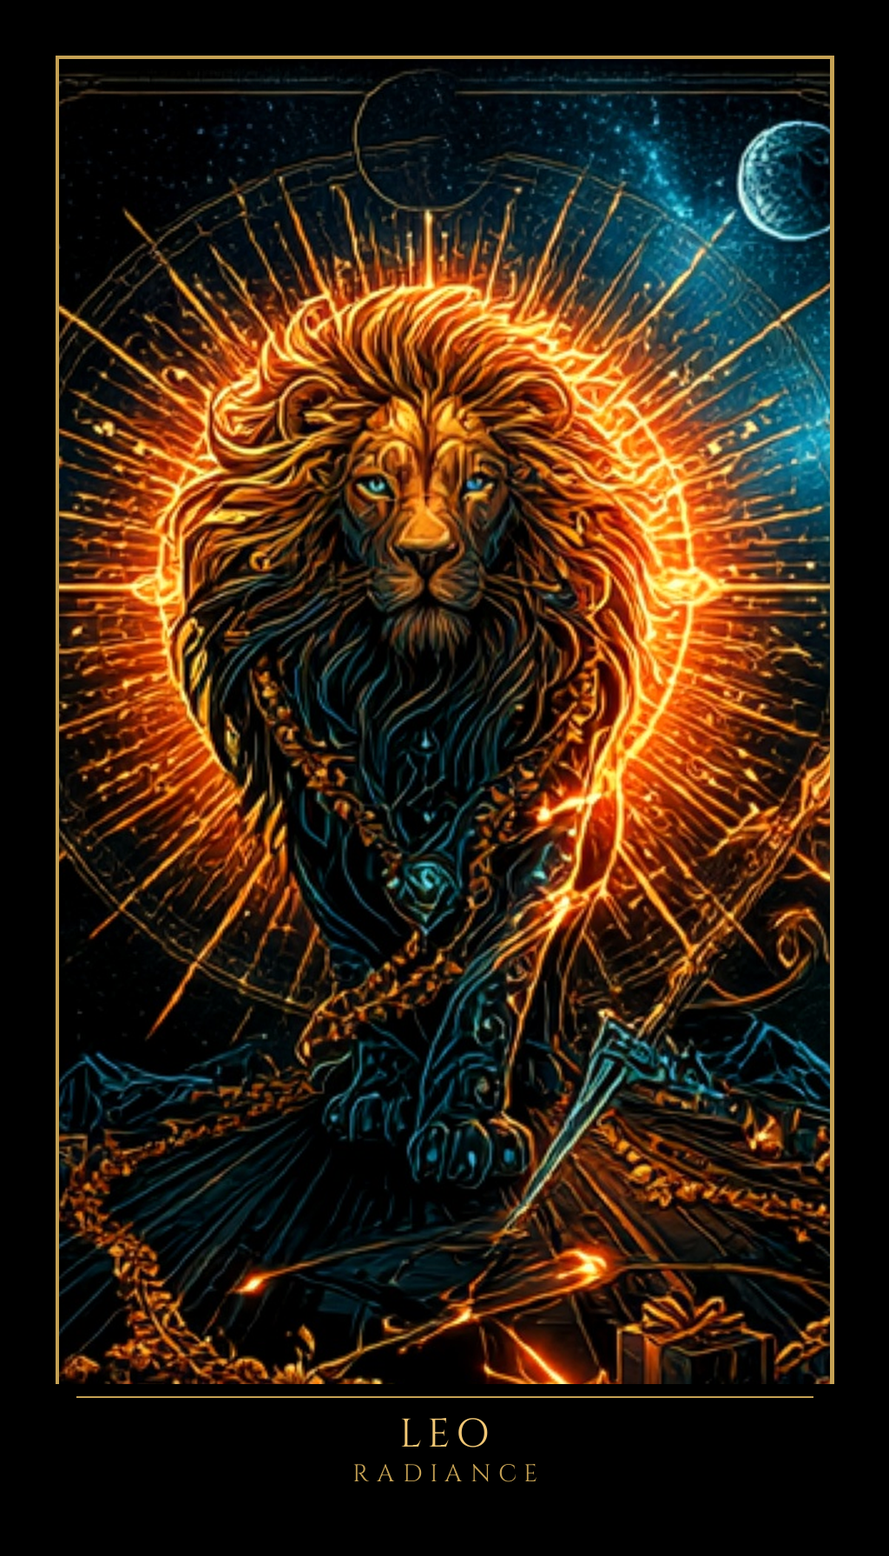
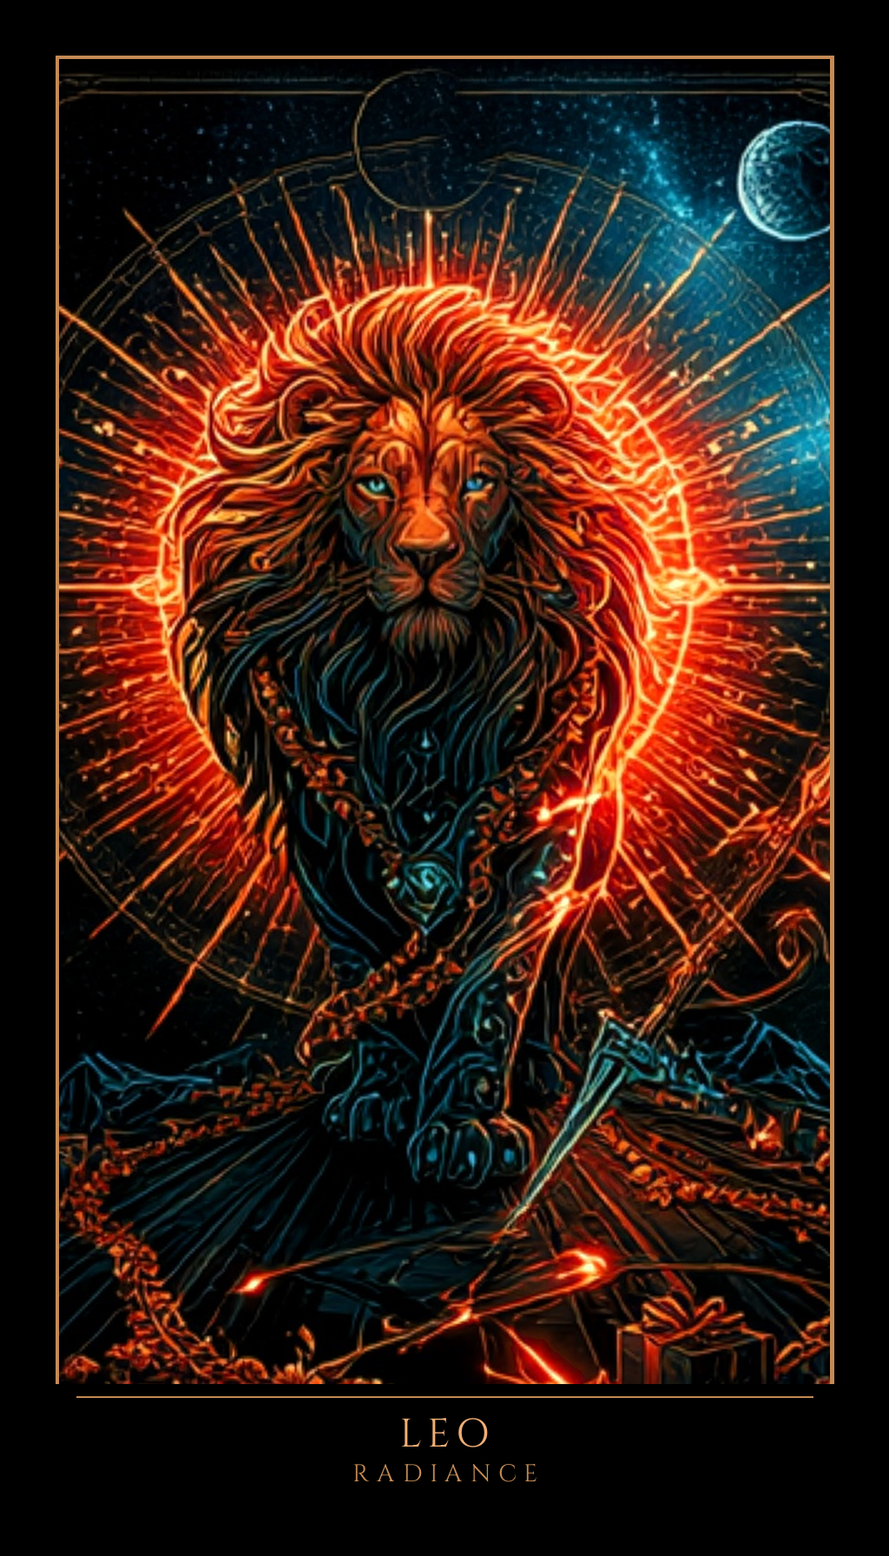
Copy, color-fidelity, and prompt-quality pass
- Fix Leo card's off-hue mane color to match reference deck (HSV-targeted pixel shift)
- Consolidate redundant hero CTAs into one primary path + subtle upsell link
- Rewrite LayerExplainer headline: 'One deck' -> 'Three decks, three layers' (now factually accurate re: Decan Engine's 36-card art set)
- Remove 'Archons' terminology from live reading-generation logic (celestialNarrative.js) and Guide page, replacing with 'Major Arcana' for consistency with the rest of the app
- Loosen Claude interpretation prompt for a more colloquial, less clinical voice; bump MAX_TOKENS/TIMEOUT_MS so the longer output doesn't silently fall back to templated text
- Update e2e test assertions to match the new, intentionally looser output contract
- Ship full BYTE pun across hero, footer, and metadata copy
- Replace 'Astral Threads -- ours alone' with 'decoded from the stars' framing on homepage + oracle page

Verified: HSV histogram match on Leo, zero remaining 'Archon' occurrences,
zero remaining 'ours alone'/'Bite-sized' occurrences, all 5 e2e interpret
scenarios passing with source=ai, clean next build.

diff --git a/lib/celestialNarrative.js b/lib/celestialNarrative.js
@@ -1,13 +1,13 @@
 // TarotByte — Celestial Narrative
 // Turns a card's `celestial` object into layered reading text for the T/Z/D tiers.
-// This is where the "Archons = fate / Suits = choices" voice lives, and where
-// non-decan cards read as AMPLIFIED rather than precise.
+// This is where the "Major Arcana = fate / Suits = choices" voice lives, and
+// where non-decan cards read as AMPLIFIED rather than precise.
 //
 // NAMING:
 //   T = Classic (card + meaning)
 //   Z = Astral Threads (zodiac sign + ruling planet overlay)
 //   D = The Decan Engine (exact 10° decan degree)
-// Major Arcana = "The Archons" (governing forces / fate)
+// Major Arcana (governing forces / fate)
 // Minor Arcana = "The Suits" (everyday choices / situations)
 
 import { zodiacLabel, decanLabel, SIGN_INFO } from "./celestial.js";
@@ -144,15 +144,15 @@ export function amplifiedText(card, cel) {
   switch (cel.mode) {
     case "source": // Aces
       return `${card.name} is the pure, undivided spark of ${cel.element.toLowerCase()} — source energy before it splits into any single degree. It touches all of ${cel.signs.join(", ")} at once, carrying the raw potential of ${elementFlavor(cel.element)}. Read it as a beginning switched fully on: a force that hasn't yet chosen its shape.`;
-    case "fate": // Majors — The Archons
+    case "fate": // Majors
       if (cel.kind === "element") {
-        return `${card.name} is an Archon of the element ${cel.body} — a governing force, not a fine degree. Archons speak the language of fate: something larger than daily choice is moving through the reading. This is about what's being asked of you, not what you're choosing. Meet it, don't manage it.`;
+        return `${card.name} is a Major Arcana card of the element ${cel.body} — a governing force, not a fine degree. The Majors speak the language of fate: something larger than daily choice is moving through the reading. This is about what's being asked of you, not what you're choosing. Meet it, don't manage it.`;
       }
       if (cel.kind === "planet") {
-        return `${card.name} is an Archon ruled by ${cel.body} — an archetypal, planet-sized force acting on you. Archons are the headlines of a reading: destiny, timing, the hand you're dealt. The energy of ${cel.body} is the current you're inside of. Align with it rather than resist.`;
+        return `${card.name} is a Major Arcana card ruled by ${cel.body} — an archetypal, planet-sized force acting on you. The Majors are the headlines of a reading: destiny, timing, the hand you're dealt. The energy of ${cel.body} is the current you're inside of. Align with it rather than resist.`;
       }
       const signQ = SIGN_QUALITIES[cel.body] || cel.body;
-      return `${card.name} is an Archon carrying the whole sign of ${cel.body} — a season of life, not a single day. ${cel.body} is ${signQ}. Archons read as fate and divination: a big current you're inside of. The universe is moving here; your work is to recognize the season and move with it.`;
+      return `${card.name} is a Major Arcana card carrying the whole sign of ${cel.body} — a season of life, not a single day. ${cel.body} is ${signQ}. The Majors read as fate and divination: a big current you're inside of. The universe is moving here; your work is to recognize the season and move with it.`;
     case "persona": // Courts
       if (cel.cusp.length === 3) {
         return `${card.name} is the receptive, elemental face of its suit — a Page carrying the whole element's promise across ${cel.cusp.join(", ")}. Read it as a person, message, or mode of being that is curious, unformed, and full of potential. Something is beginning, and it hasn't decided what it wants to be yet.`;
@@ -225,7 +225,7 @@ function amplifiedNote(cel, card) {
     case "source":
       return `No single decan — ${card.name} is the whole element at once. At the Decan Engine layer it reads as maximum amplification: pure, concentrated source energy that hasn't yet split into any degree. The precision isn't in a 10° window; it's in the raw force itself.`;
     case "fate":
-      return `No single decan — ${card.name} is an Archon, fate-sized. At the Decan Engine layer it reads as a governing headline: the universe is moving here, not just your choices. The decan can't narrow what an Archon already commands.`;
+      return `No single decan — ${card.name} is a Major Arcana card, fate-sized. At the Decan Engine layer it reads as a governing headline: the universe is moving here, not just your choices. The decan can't narrow what a Major Arcana card already commands.`;
     case "persona":
       return `No single decan — ${card.name} is a Court spanning a cusp. At the Decan Engine layer it reads as a person or persona carrying more than one energy. The decan refines everyday choices; a Court is already larger than any single 10° window.`;
     default:
@@ -244,7 +244,7 @@ export function readingTone(cardsWithCelestial) {
   const total = cardsWithCelestial.length || 1;
 
   if (counts.fate >= Math.ceil(total / 2)) {
-    return { key: "fate", text: "The Archons dominate — this reading is about fate, not fine control. The universe is moving; your work is to align with what's being asked of you." };
+    return { key: "fate", text: "The Major Arcana dominates — this reading is about fate, not fine control. The universe is moving; your work is to align with what's being asked of you." };
   }
   if (counts.choices >= Math.ceil(total / 2)) {
     return { key: "choices", text: "The numbered cards lead — this reading is about your choices and everyday behaviour. Small, precise moves shift the outcome. You have the wheel." };

diff --git a/lib/interpretPrompt.js b/lib/interpretPrompt.js
@@ -7,17 +7,17 @@
 // Output contract (strict JSON):
 // {
 //   "cards": [
-//     { "keywords": ["...","...","..."], "overview": "1-2 sentences" }
+//     { "keywords": ["...","...","..."], "overview": "a few sentences, length follows the card's weight" }
 //   ],
 //   "threadLine": "one sentence | null",
-//   "synthesis": "1-2 detailed paragraphs"
+//   "synthesis": "several sentences to a couple of paragraphs, ends with a directive takeaway"
 // }
 
 export const INTERPRETATION_SCHEMA_HINT = `Return ONLY valid JSON (no markdown fences, no commentary) matching exactly:
 {
-  "cards": [ { "keywords": ["word","word","word"], "overview": "one or two sentences" } ],
+  "cards": [ { "keywords": ["word","word","word"], "overview": "a few sentences, as long as the card needs" } ],
   "threadLine": "one sentence tying the Astral Threads sign to the whole spread, or null if no oracle card was drawn",
-  "synthesis": "one to two detailed paragraphs"
+  "synthesis": "several sentences to a couple of full paragraphs, ending with a clear, specific directive takeaway"
 }
 The "cards" array MUST have exactly one entry per drawn tarot card, in the same order given.`;
 
@@ -52,7 +52,9 @@ export function buildInterpretationPrompt(reading, question) {
     ? `\nAn Astral Threads oracle card was also drawn: ${reading.oracle.sign} — "${reading.oracle.keyword}". ${reading.oracle.energy} ${reading.oracle.clarifier}\nBecause this card is present, ALL cards in this spread are touched by that celestial energy. Write "threadLine" as a single sentence describing how ${reading.oracle.sign} colours the whole reading.`
     : `\nNo oracle card was drawn. Set "threadLine" to null.`;
 
-  return `You are TarotByte — a warm, grounded, modern tarot reader. You are insightful and specific, never vague or generically mystical. You speak directly to the person ("you"), and you never hedge with "may or may not". Avoid clichés like "trust the journey".
+  return `You are TarotByte — a warm, grounded, modern tarot reader talking to a friend, not narrating a textbook. You're insightful and specific, never vague or generically mystical. You speak directly to the person ("you"), and you never hedge with "may or may not". Avoid clichés like "trust the journey."
+
+Write the way you'd actually talk if you were good at this and cared about the person in front of you — colloquial, direct, a little wry when the card calls for it. Vary your sentence rhythm. Don't fall into a template where every card gets the same clinical two-beat structure.
 
 ${q}
 ${ctx}
@@ -64,9 +66,16 @@ ${oracleBlock}
 
 For EACH card produce:
   - "keywords": the top 3 words that define that card AS IT LANDS in this specific reading (not generic dictionary keywords). Single words or very short phrases, lowercase.
-  - "overview": TWO SENTENCES MAXIMUM interpreting that card in the context of the question and its position. Be concrete and useful.
+  - "overview": Interpret that card in the context of the question and its position. Give it the room it needs — usually 2-4 sentences, more if the card is doing real work in this spread. Be concrete and useful, not padded.
 
-Then produce "synthesis": one to two detailed paragraphs that tie every card together into a single coherent answer to what was asked. Reference the cards by name, name the through-line, and end with a specific, actionable takeaway. This is the payoff of the whole reading — make it genuinely insightful, not a restatement of the individual cards.
+Then produce "synthesis": the payoff of the whole reading. This should run longer and hit harder than the individual card overviews — several sentences to a full paragraph or two. Tie every card together into one coherent answer to what was actually asked, reference the cards by name, and name the through-line connecting them.
+
+Critically, close with a clear, directive takeaway — and be specific about WHAT KIND of guidance it is, because different cards call for different responses:
+  - Sometimes it's a concrete action ("Have the conversation this week, don't wait for the perfect opening.")
+  - Sometimes it's about behavior or a pattern to notice in yourself ("Watch how often you say yes before you've actually decided.")
+  - Sometimes it's a force larger than the person's control, where the right move is awareness and timing rather than action ("This one isn't yours to fix right now — the shift is coming from outside you. Stay ready, not busy.")
+  - Sometimes it's genuinely just "let this one go" or "sit with it a while longer."
+Pick whichever is true to the cards drawn and say so plainly. Don't manufacture a task if the reading is actually telling them to release control.
 
 ${INTERPRETATION_SCHEMA_HINT}`;
 }

diff --git a/app/page.js b/app/page.js
@@ -8,7 +8,7 @@ import { asset } from "@/lib/asset";
 export const metadata = {
   title: "TarotByte — Free Tarot Readings with an Astral Twist",
   description:
-    "Free online tarot readings with an astrology-powered twist. Try Yes/No, Past·Present·Future, or your signature Energy Reading. Bite-sized wisdom from the cosmos.",
+    "Free online tarot readings with an astrology-powered twist. Try Yes/No, Past·Present·Future, or your signature Energy Reading. Byte-sized wisdom from the cosmos.",
   alternates: { canonical: "https://www.tarotbyte.app/" },
 };
 
@@ -43,16 +43,18 @@ export default function Home() {
       <header className="container" style={{ paddingTop: "3.5rem", paddingBottom: "2rem", textAlign: "center" }}>
         <div className="eyebrow" style={{ animation: "fadeUp 0.6s ease both" }}>Digital tarot · celestial insight · your energy, decoded</div>
         <h1 style={{ fontSize: "clamp(2.6rem, 6vw, 4.5rem)", margin: "1rem 0", animation: "fadeUp 0.7s ease 0.05s both" }}>
-          Bite-sized wisdom<br />from the <span className="gold-text">cosmos</span>.
+          <span className="gold-text">Byte</span>-sized wisdom<br />from the cosmos.
         </h1>
         <p className="muted" style={{ fontSize: "1.2rem", maxWidth: 620, margin: "0 auto 2rem", animation: "fadeUp 0.8s ease 0.1s both" }}>
           Real tarot, read against the real sky. TarotByte takes the classic 78-card
           deck and shows you the astrology already hidden inside every card — so your
           reading gets specific instead of vague.
         </p>
-        <div style={{ display: "flex", gap: "1rem", justifyContent: "center", flexWrap: "wrap", animation: "fadeUp 0.9s ease 0.15s both" }}>
-          <Link href="/readings/yes-no" className="btn btn-lg">Try a free reading ✦</Link>
-          <Link href="/signup" className="btn btn-ghost btn-lg">Unlock your Energy Reading</Link>
+        {/* One primary CTA, not two competing "free" buttons. It lands on
+            /readings, where people choose their own depth — the choice
+            LayerExplainer sets up right below the fold. */}
+        <div style={{ display: "flex", justifyContent: "center", animation: "fadeUp 0.9s ease 0.15s both" }}>
+          <Link href="/readings" className="btn btn-lg">Explore the readings ✦</Link>
         </div>
         <p className="muted" style={{ fontSize: "0.85rem", marginTop: "1.25rem", fontFamily: "var(--font-ui)" }}>
           Want the deepest layer? <Link href="/subscribe" style={{ color: "var(--brass-bright)", textDecoration: "underline", textUnderlineOffset: "2px" }}>See subscription plans →</Link>
@@ -105,10 +107,11 @@ export default function Home() {
         <div className="panel" style={{ padding: "2.5rem", display: "grid", gridTemplateColumns: "1fr 1fr", gap: "2rem", alignItems: "center" }}>
           <div>
             <div className="eyebrow">The TarotByte difference</div>
-            <h2 style={{ fontSize: "2rem", margin: "0.5rem 0 1rem" }}>The <span className="gold-text">Astral Threads</span> — ours alone</h2>
+            <h2 style={{ fontSize: "2rem", margin: "0.5rem 0 1rem" }}>The <span className="gold-text">Astral Threads</span> — your decoded message from the stars</h2>
             <p className="muted" style={{ marginBottom: "1rem" }}>
-              Most tarot sites stop at the cards. TarotByte layers in the <strong style={{ color: "var(--arcane)" }}>Astral Threads</strong> —
-              an original 12-sign celestial deck that clarifies the energy behind every reading.
+              We didn&apos;t reinvent the wheel — astrology and tarot have been speaking to
+              each other for centuries. We just put it to work. The <strong style={{ color: "var(--arcane)" }}>Astral Threads</strong> is
+              an original 12-sign celestial deck that translates the sky into plain language, right alongside every reading.
             </p>
             <p className="muted">
               It powers our signature <strong style={{ color: "var(--brass-bright)" }}>Energy Reading</strong>:

diff --git a/app/guide/page.js b/app/guide/page.js
@@ -3,7 +3,7 @@ import Link from "next/link";
 export const metadata = {
   title: "How TarotByte Reads — The Guide",
   description:
-    "Understand TarotByte's two dimensions, three reading layers, the Archons, the Suits, the Astral Threads, and the Decan Engine.",
+    "Understand TarotByte's two dimensions, three reading layers, the Major Arcana, the Suits, the Astral Threads, and the Decan Engine.",
 };
 
 export default function GuidePage() {
@@ -28,9 +28,9 @@ export default function GuidePage() {
           match the celestial theme:
         </p>
         <div className="guide-callout">
-          <p><strong className="gold-text">The Archons</strong> — what most decks call the Major Arcana. These
-          are the 22 governing forces: fate, archetype, the big energies acting on you. When an Archon shows
-          up, something larger than daily life is in motion.</p>
+          <p><strong className="gold-text">The Major Arcana</strong> — the 22 governing forces: fate,
+          archetype, the big energies acting on you. When a Major shows up, something larger than daily
+          life is in motion.</p>
           <p><strong className="gold-text">The Suits</strong> — the Minor Arcana. These are the 56 cards of
           everyday choices: Wands (Fire, will), Cups (Water, feeling), Swords (Air, mind), and Pentacles
           (Earth, resource). They describe the texture of your day-to-day situation.</p>
@@ -72,8 +72,8 @@ export default function GuidePage() {
         <ul className="guide-list">
           <li><strong className="gold-text">Aces</strong> → the pure, undivided element itself (source energy).
           The Ace of Wands is all of Fire — Aries, Leo, and Sagittarius at once.</li>
-          <li><strong className="gold-text">Archons</strong> → a whole planet or sign. They're fate-level
-          forces, so they read as the full ruling body rather than one slice of it.</li>
+          <li><strong className="gold-text">Major Arcana</strong> → a whole planet or sign. They're
+          fate-level forces, so they read as the full ruling body rather than one slice of it.</li>
           <li><strong className="gold-text">Court cards</strong> → a persona straddling a cusp between two
           signs. The reading describes the tension and blend of both energies.</li>
           <li><strong className="gold-text">Pips 2–10</strong> → resolve to a <em>precise</em> decan. This is
@@ -104,8 +104,9 @@ export default function GuidePage() {
       <Section title="Astral Weather">
         <p>
           At the bottom of your reading you'll sometimes see an <strong className="gold-text">Astral
-          Weather</strong> line. This is a reading-level summary of the overall balance — how many Archons
-          (fate) versus Suits (choices) versus Aces (source) versus Courts (personas) appeared in your draw.
+          Weather</strong> line. This is a reading-level summary of the overall balance — how many Major
+          Arcana (fate) versus Suits (choices) versus Aces (source) versus Courts (personas) appeared in
+          your draw.
         </p>
         <p>
           It's a quick way to sense the "temperature" of the reading: a fate-heavy spread feels different from

diff --git a/app/components/LayerExplainer.js b/app/components/LayerExplainer.js
@@ -53,14 +53,15 @@ export default function LayerExplainer() {
       <div style={{ textAlign: "center", marginBottom: "2.25rem" }}>
         <div className="eyebrow">New here? Start with this</div>
         <h2 style={{ fontSize: "clamp(1.9rem, 4vw, 2.4rem)", marginTop: "0.5rem" }}>
-          One deck. <span className="gold-text">Three layers</span> of depth.
+          Three decks. <span className="gold-text">Three layers</span> of depth.
         </h2>
         <p
           className="muted"
           style={{ maxWidth: 620, margin: "0.9rem auto 0", fontSize: "1.03rem" }}
         >
-          Every reading uses the same 78 cards. What changes is how much of the sky
-          you can see behind them. Start free — go deeper whenever you want.
+          Every reading draws from the same 78 cards, but each layer reveals its own
+          deck and its own depth of sky behind them. Start free — go deeper whenever
+          you want.
         </p>
       </div>
 

diff --git a/app/layout.js b/app/layout.js
@@ -8,7 +8,7 @@ export const metadata = {
     template: "%s — TarotByte",
   },
   description:
-    "Free tarot readings, an original astrology-powered Astral Threads deck, and your signature Energy Reading. Bite-sized wisdom for the modern seeker.",
+    "Free tarot readings, an original astrology-powered Astral Threads deck, and your signature Energy Reading. Byte-sized wisdom for the modern seeker.",
   keywords: [
     "tarot", "free tarot reading", "online tarot", "astrology tarot",
     "decan", "zodiac tarot", "celestial tarot", "astral threads",
@@ -28,7 +28,7 @@ export const metadata = {
     card: "summary_large_image",
     title: "TarotByte — Digital Tarot with an Astral Twist",
     description:
-      "Free tarot readings with an astral twist. Bite-sized wisdom for the modern seeker.",
+      "Free tarot readings with an astral twist. Byte-sized wisdom for the modern seeker.",
   },
   robots: {
     index: true,

diff --git a/app/oracle/page.js b/app/oracle/page.js
@@ -11,7 +11,7 @@ export default function OraclePage() {
       <Nav />
       <main className="container" style={{ paddingTop: "2.5rem", paddingBottom: "4rem" }}>
         <div style={{ textAlign: "center", marginBottom: "2.5rem", maxWidth: 640, margin: "0 auto 2.5rem" }}>
-          <div className="eyebrow">Original · astrology-powered · ours alone</div>
+          <div className="eyebrow">Original · astrology-powered · decoded from the stars</div>
           <h1 style={{ fontSize: "2.8rem", marginTop: "0.5rem" }}>The <span className="gold-text">Astral Threads</span></h1>
           <p className="muted" style={{ marginTop: "0.75rem" }}>
             Twelve celestial energies — one for each sign of the zodiac — hand-crafted for TarotByte.

diff --git a/app/api/interpret/route.js b/app/api/interpret/route.js
@@ -15,8 +15,11 @@ import {
 
 // Overridable via env so the model can be upgraded without a code change.
 const MODEL = process.env.ANTHROPIC_MODEL || "claude-sonnet-4-5-20250929";
-const MAX_TOKENS = 1600;
-const TIMEOUT_MS = 20000;
+// Bumped alongside the longer, more colloquial interpretation prompt: overviews
+// and synthesis now run longer by design, so the old 1600/20s budget was
+// clipping or timing out multi-card spreads and silently falling back.
+const MAX_TOKENS = 2400;
+const TIMEOUT_MS = 30000;
 
 export async function POST(request) {
   let body;

diff --git a/lib/celestial.js b/lib/celestial.js
@@ -122,7 +122,7 @@ export const COURT_SPANS = {
   "page-of-pentacles": { primary: "Earth", cusp: ["Capricorn", "Taurus", "Virgo"] },
 };
 
-// --- The Archons (Major Arcana) → planet / sign / element (Golden Dawn Hebrew-letter attributions) ---
+// --- The Major Arcana → planet / sign / element (Golden Dawn Hebrew-letter attributions) ---
 export const MAJOR_CORRESPONDENCE = {
   "the-fool": { kind: "element", body: "Air" },
   "the-magician": { kind: "planet", body: "Mercury" },

diff --git a/app/components/Footer.js b/app/components/Footer.js
@@ -13,7 +13,7 @@ export default function Footer() {
             Tarot<span className="gold-text">Byte</span>
           </div>
           <p className="footer-tag">
-            Free tarot readings with an astral twist. Bite-sized wisdom for the modern seeker.
+            Free tarot readings with an astral twist. Byte-sized wisdom for the modern seeker.
           </p>
         </div>
 

diff --git a/scripts/fix_leo_hue.py b/scripts/fix_leo_hue.py
@@ -1,0 +1,55 @@
+#!/usr/bin/env python3
+"""
+fix_leo_hue.py
+
+Leo's mane highlights render as golden-yellow (~hue 30) where every other
+zodiac card in the front-page row (Aries, Cancer, Virgo, Capricorn, etc.)
+uses an orange-red "flame" palette (~hue 15-20). This shifts only the warm,
+bright, saturated pixels toward that established hue -- it leaves the cyan
+eyes, dark background, and border untouched, since those aren't part of the
+"flame" that's supposed to be color-consistent across the deck.
+"""
+import sys
+import colorsys
+from PIL import Image
+
+SRC = "public/oracle/leo.png"
+OUT = "public/oracle/leo.png"
+
+# Only touch pixels that are warm (candidate hue 0-70), bright, and saturated
+# -- i.e. the mane's glow, not the eyes or background.
+HUE_MIN, HUE_MAX = 0, 70
+SAT_MIN, VAL_MIN = 0.35, 0.30
+
+# Target: shift the peak from ~30-35 down to ~18-20, matching Aries/Virgo/etc.
+HUE_SHIFT_DEG = -12
+
+
+def fix(path_in, path_out, shift_deg=HUE_SHIFT_DEG):
+    im = Image.open(path_in).convert("RGB")
+    px = im.load()
+    w, h = im.size
+    shift = shift_deg / 360.0
+    changed = 0
+    for y in range(h):
+        for x in range(w):
+            r, g, b = px[x, y]
+            hh, s, v = colorsys.rgb_to_hsv(r / 255, g / 255, b / 255)
+            deg = hh * 360
+            if HUE_MIN <= deg <= HUE_MAX and s >= SAT_MIN and v >= VAL_MIN:
+                new_h = (hh + shift) % 1.0
+                nr, ng, nb = colorsys.hsv_to_rgb(new_h, s, v)
+                px[x, y] = (round(nr * 255), round(ng * 255), round(nb * 255))
+                changed += 1
+    print(f"pixels shifted: {changed} / {w*h} ({changed/(w*h)*100:.1f}%)")
+    im.save(path_out)
+    return im
+
+
+if __name__ == "__main__":
+    dry = "--dry-run" in sys.argv
+    # Dry-run always writes to a scratch path outside public/ so the real
+    # source is never touched until the preview is confirmed good.
+    out = "/workspace/leo_hue_fixed_preview.png" if dry else OUT
+    fix(SRC, out)
+    print("wrote", out)
